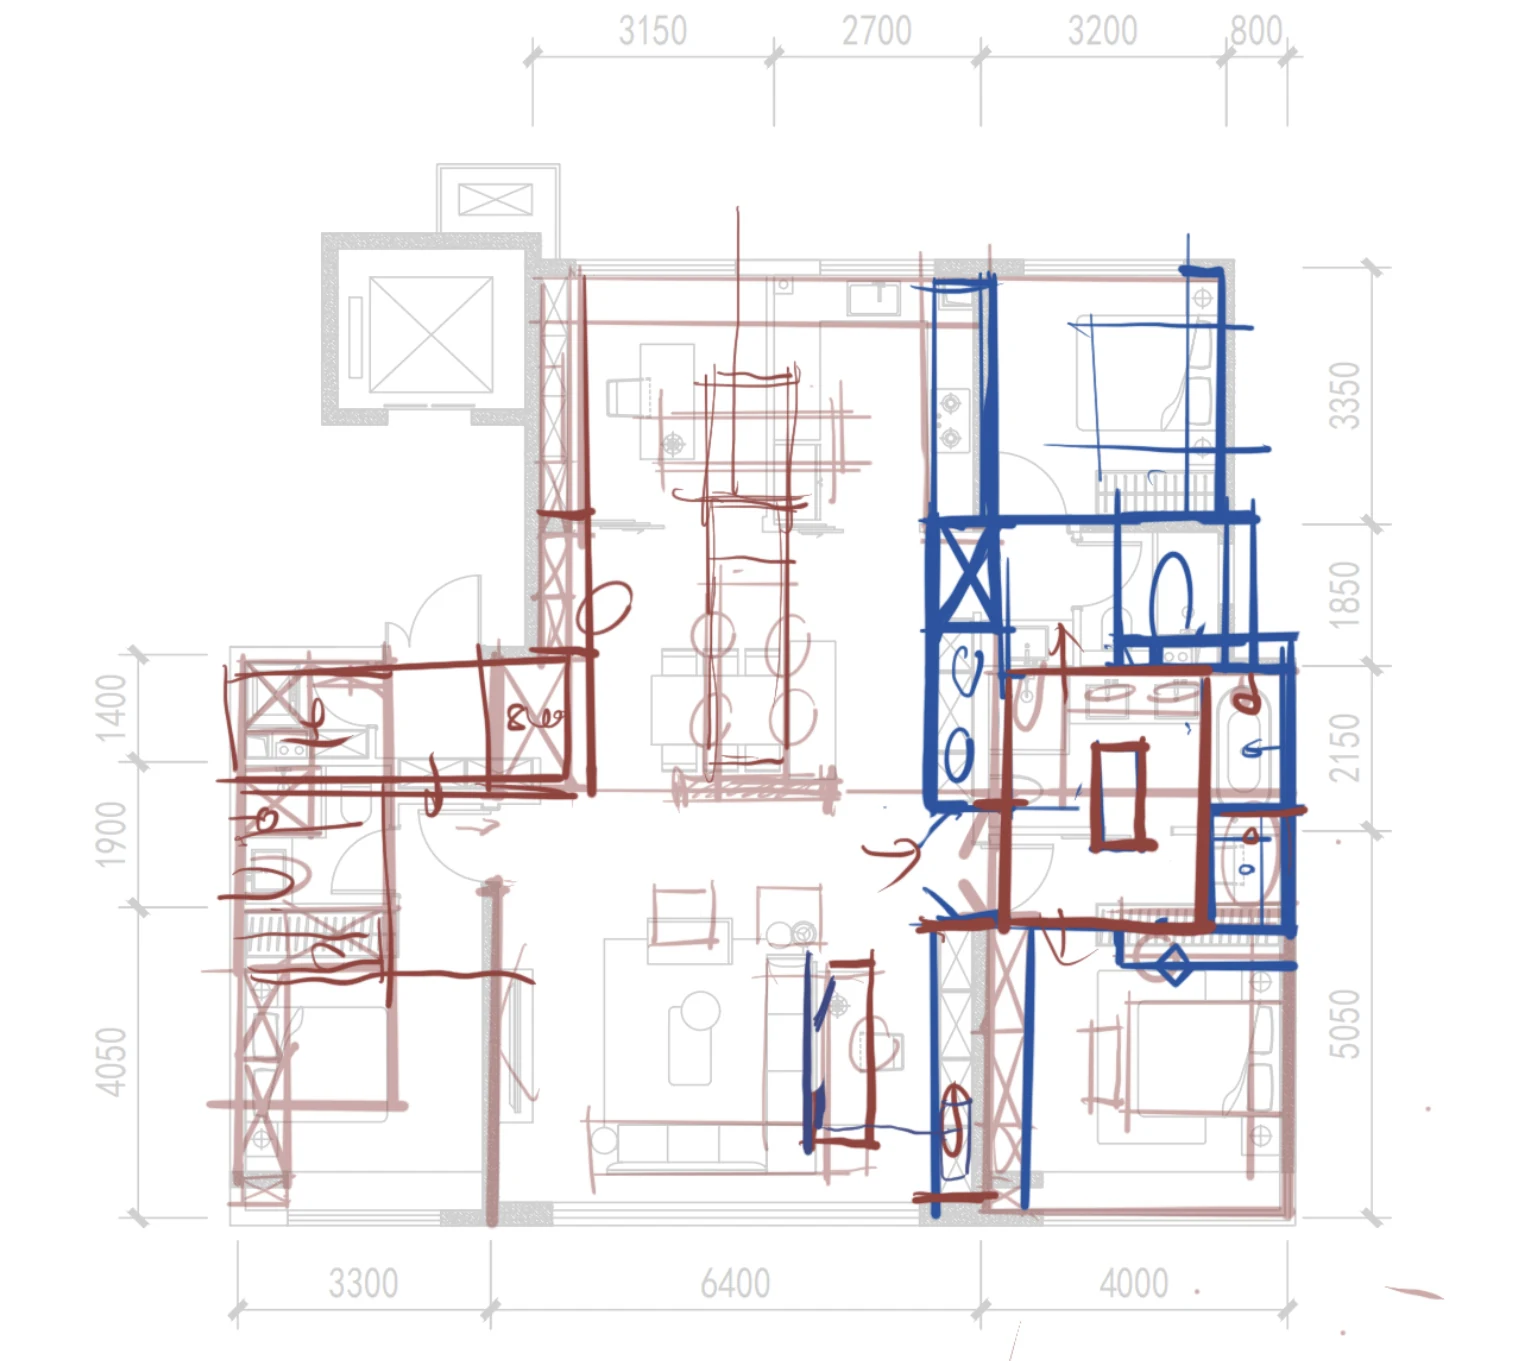
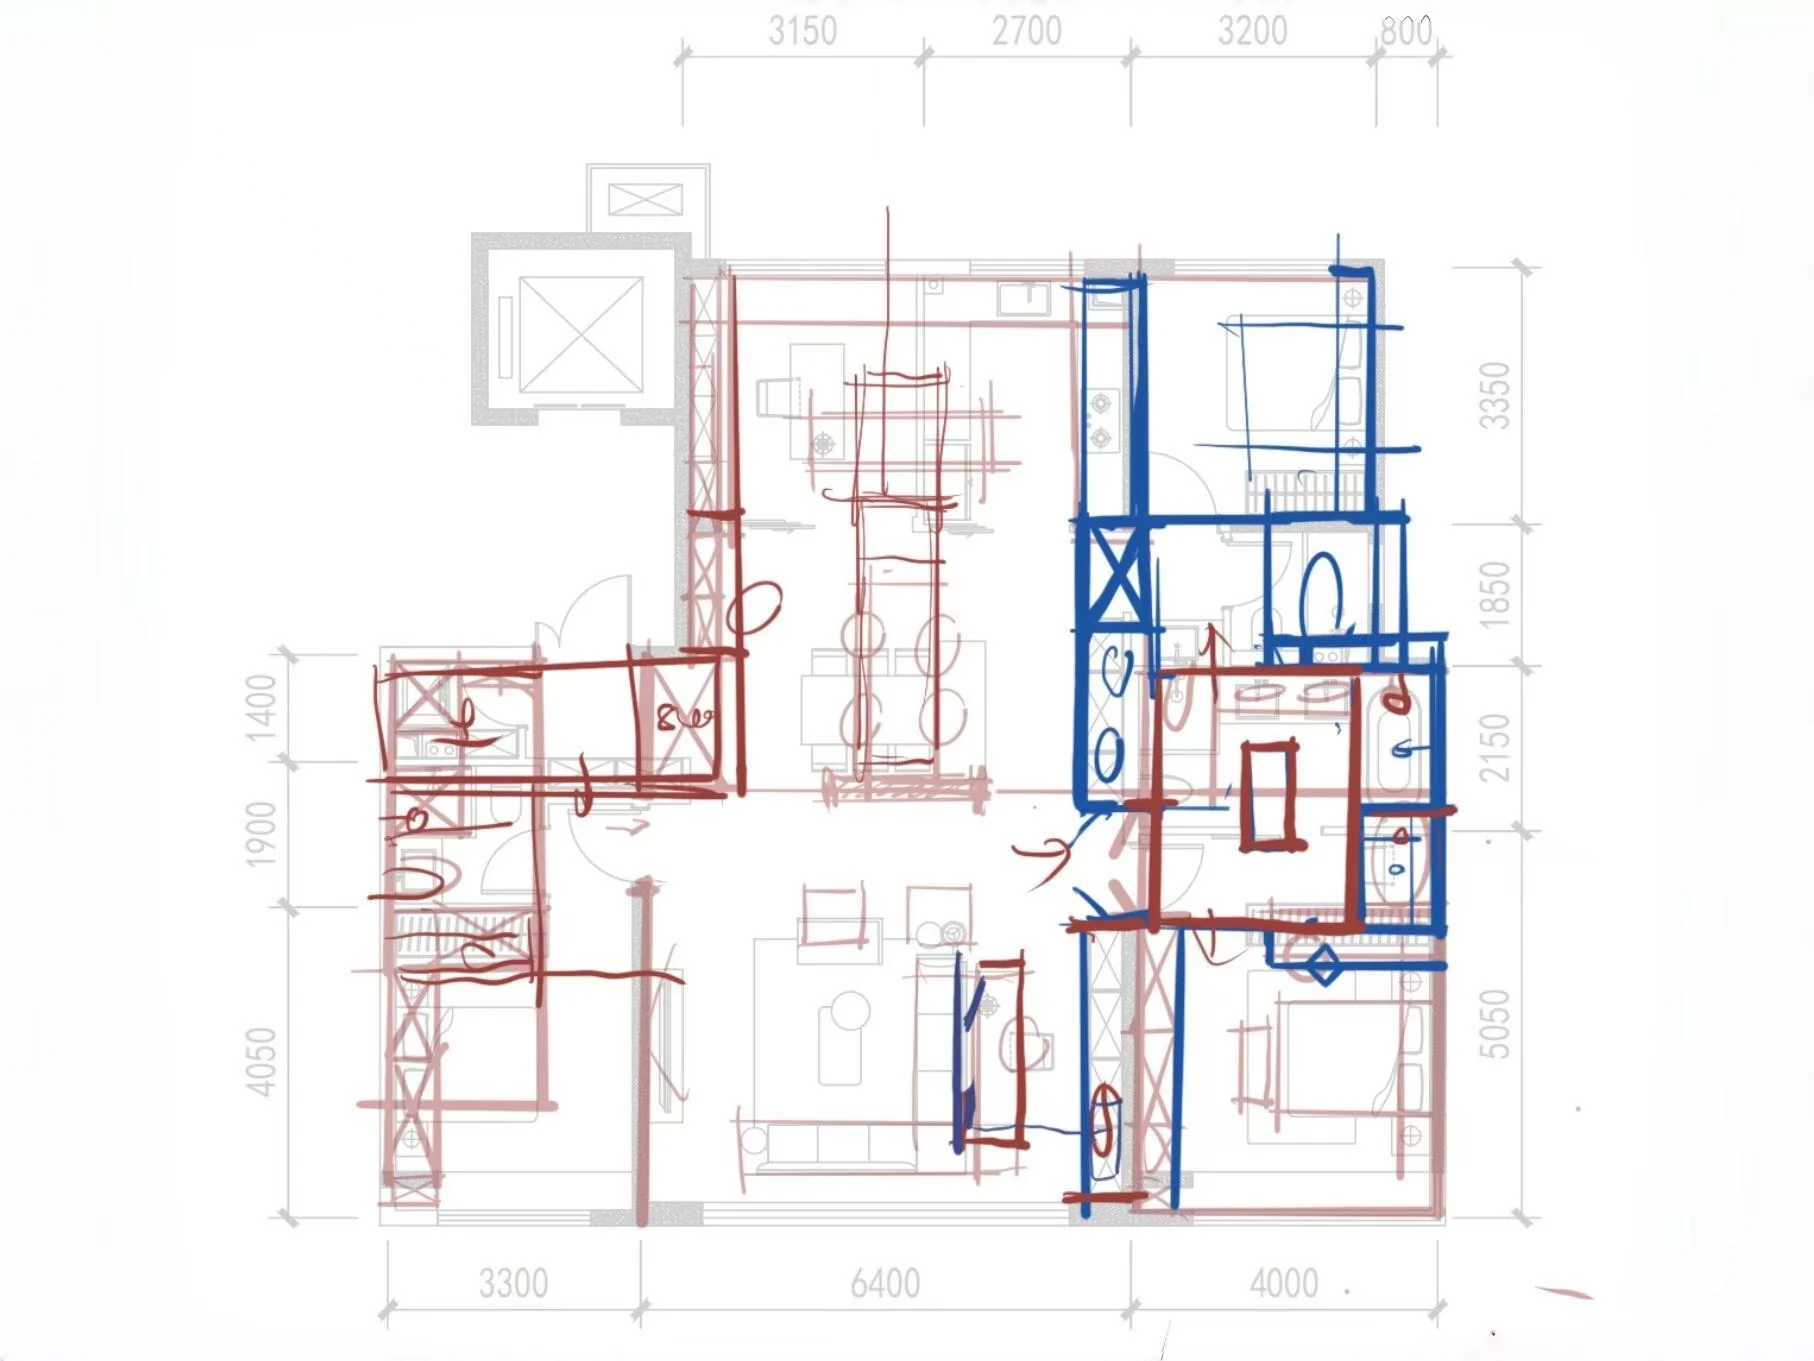
Replace process stage 01 cover

diff --git a/index.html b/index.html
@@ -46,7 +46,7 @@
     <script src="/assets/process-hover.js"></script>
     <script src="/assets/archive-gallery.js?v=4"></script>
     <script src="/assets/awards-redesign-v7.js?v=2"></script>
-    <script src="/assets/process-landscape.js?v=2"></script>
+    <script src="/assets/process-landscape.js?v=3"></script>
     <script src="/assets/project-cover-override.js"></script>
   </body>
 </html>

diff --git a/assets/process-landscape.js b/assets/process-landscape.js
@@ -1,6 +1,6 @@
 (() => {
   const stages = [
-    ["process-01-initial-contact.webp"],
+    ["process-01-initial-contact.webp?v=2"],
     ["process-02-pre-design.webp"],
     ["process-03-concept-design.webp"],
     ["process-04-schematic-design.webp"],
